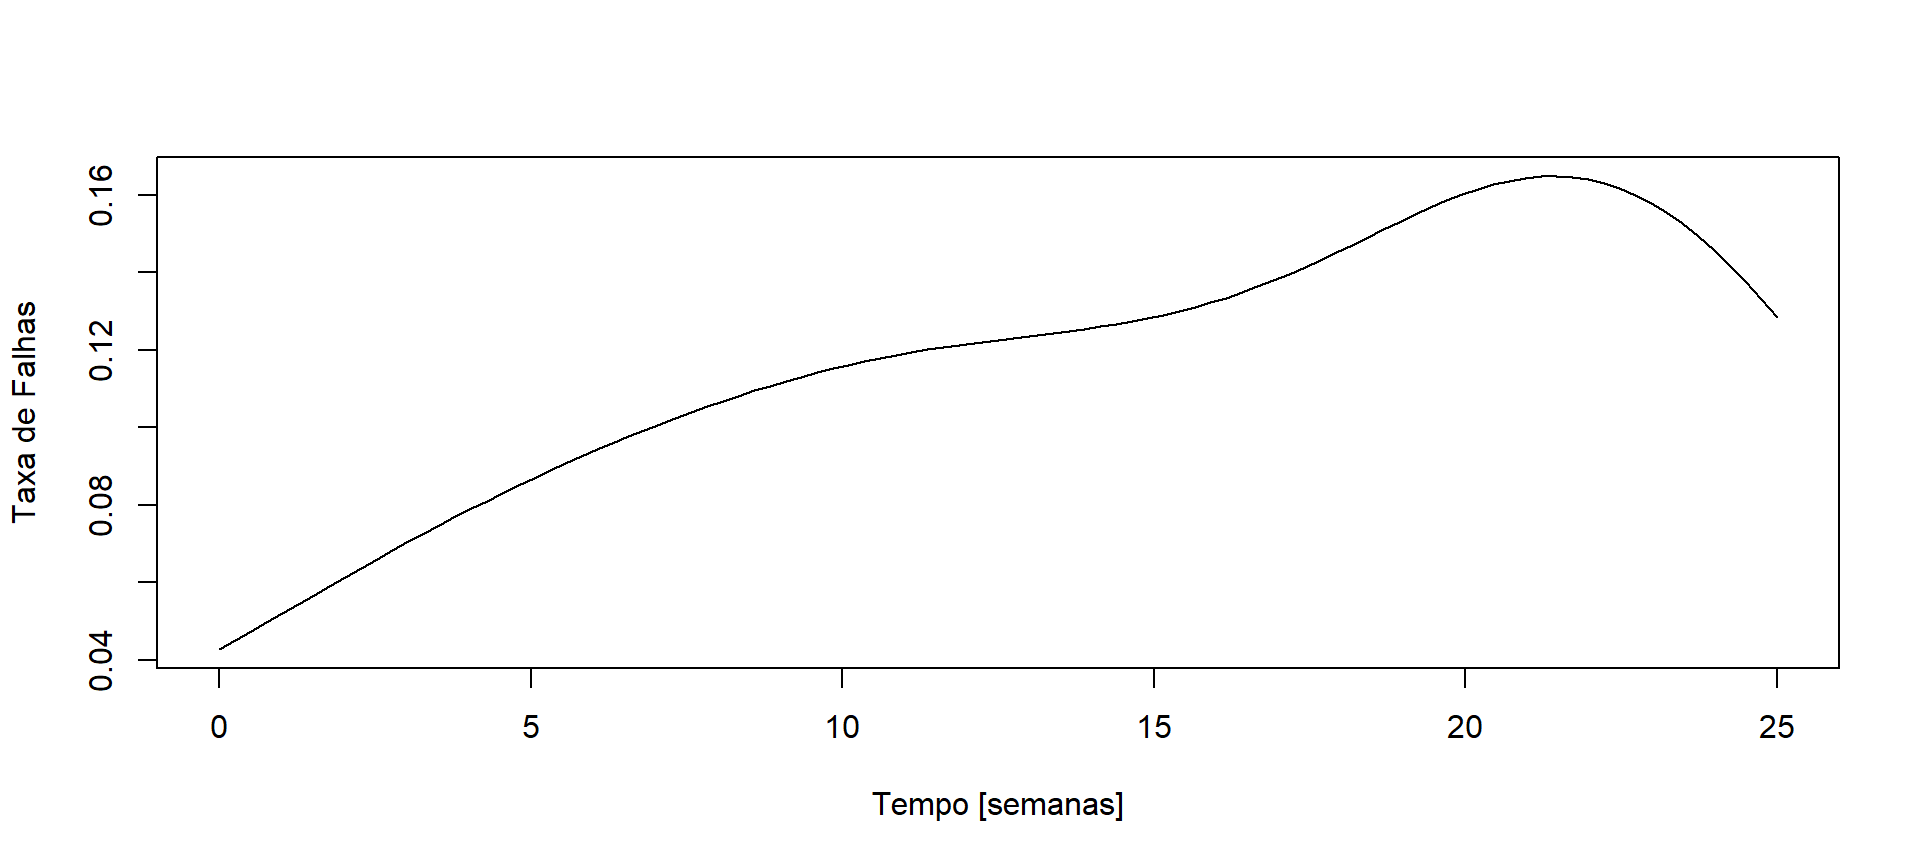
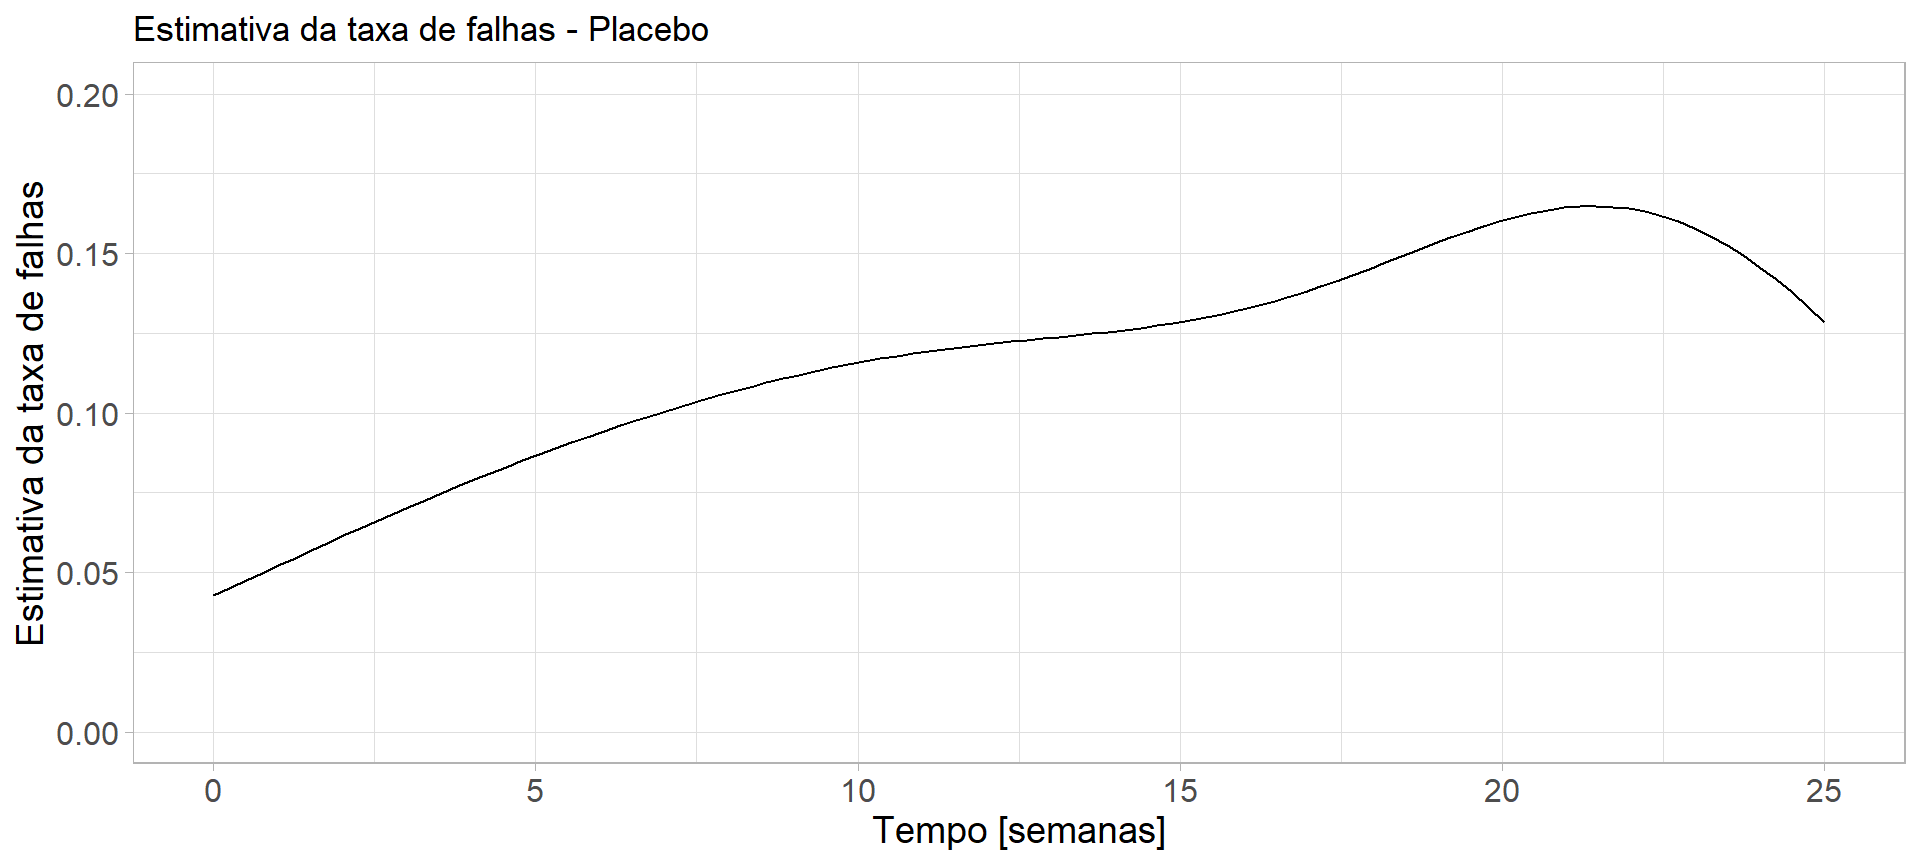
at24-08

diff --git a/_site/semanas/Aula02B.html b/_site/semanas/Aula02B.html
@@ -734,7 +734,7 @@ grupos=3 13       13     7.47      4.08      7.98
 <p>Vamos obter uma aproximação da função taxa de falhas usando a função density</p>
 <p>Posteriormente vamos obter o quantil usando uma função do pacote <code>survey</code></p>
 </section>
-<section id="ht-não-paramétrica---6mp" class="slide level2">
+<section id="ht-não-paramétrica---6mp" class="slide level2 smaller">
 <h2>h(t) não paramétrica - 6MP</h2>
 <div class="panel-tabset">
 <ul id="tabset-4" class="panel-tabset-tabby"><li><a data-tabby-default="" href="#tabset-4-1">Codigo</a></li><li><a href="#tabset-4-2">Grafico</a></li></ul>
@@ -748,12 +748,17 @@ grupos=3 13       13     7.47      4.08      7.98
 <span id="cb25-5"><a href="#cb25-5"></a>ajusteKM_sum <span class="ot">&lt;-</span> <span class="fu">summary</span>(ajusteKM)</span>
 <span id="cb25-6"><a href="#cb25-6"></a>pesos <span class="ot">&lt;-</span> ajusteKM_sum<span class="sc">$</span>n.event<span class="sc">/</span>ajusteKM_sum<span class="sc">$</span>n.risk</span>
 <span id="cb25-7"><a href="#cb25-7"></a>h <span class="ot">&lt;-</span> <span class="fu">density</span>(ajusteKM_sum<span class="sc">$</span>time, <span class="at">weights =</span> pesos,</span>
-<span id="cb25-8"><a href="#cb25-8"></a><span class="at">kernel =</span> <span class="st">"gaussian"</span>, <span class="at">n =</span> <span class="dv">100</span>, <span class="at">from =</span> <span class="dv">0</span>, <span class="at">to =</span> <span class="dv">35</span>)</span></code><button title="Copy to Clipboard" class="code-copy-button"><i class="bi"></i></button></pre></div>
+<span id="cb25-8"><a href="#cb25-8"></a><span class="at">kernel =</span> <span class="st">"gaussian"</span>, <span class="at">n =</span> <span class="dv">100</span>, <span class="at">from =</span> <span class="dv">0</span>, <span class="at">to =</span> <span class="dv">35</span>)</span>
+<span id="cb25-9"><a href="#cb25-9"></a><span class="fu">library</span>(ggplot2)</span>
+<span id="cb25-10"><a href="#cb25-10"></a>data <span class="ot">&lt;-</span> <span class="fu">data.frame</span>(<span class="at">x=</span>h<span class="sc">$</span>x, <span class="at">y=</span>h<span class="sc">$</span>y)</span></code><button title="Copy to Clipboard" class="code-copy-button"><i class="bi"></i></button></pre></div>
 </div>
 </div>
 <div id="tabset-4-2">
 <div class="cell">
-<div class="sourceCode cell-code" id="cb26"><pre class="sourceCode numberSource r number-lines code-with-copy"><code class="sourceCode r"><span id="cb26-1"><a href="#cb26-1"></a><span class="fu">plot</span>(h<span class="sc">$</span>x, h<span class="sc">$</span>y, <span class="at">type =</span> <span class="st">"l"</span>, <span class="at">xlab =</span> <span class="st">"Tempo [semanas]"</span>, <span class="at">ylab =</span> <span class="st">"Taxa de Falhas"</span>)</span></code><button title="Copy to Clipboard" class="code-copy-button"><i class="bi"></i></button></pre></div>
+<div class="sourceCode cell-code" id="cb26"><pre class="sourceCode numberSource r number-lines code-with-copy"><code class="sourceCode r"><span id="cb26-1"><a href="#cb26-1"></a><span class="fu">ggplot</span>(data, <span class="fu">aes</span>(<span class="at">x=</span>x, <span class="at">y=</span>y)) <span class="sc">+</span> <span class="fu">geom_line</span>() <span class="sc">+</span> <span class="fu">scale_y_continuous</span>(<span class="at">limits=</span><span class="fu">c</span>(<span class="dv">0</span>,<span class="fl">0.20</span>)) <span class="sc">+</span> <span class="fu">theme_light</span>() <span class="sc">+</span></span>
+<span id="cb26-2"><a href="#cb26-2"></a>  <span class="fu">theme</span>(<span class="at">axis.text =</span> <span class="fu">element_text</span>(<span class="at">size =</span> <span class="dv">12</span>),</span>
+<span id="cb26-3"><a href="#cb26-3"></a>        <span class="at">axis.title =</span> <span class="fu">element_text</span>(<span class="at">size =</span> <span class="dv">14</span>)) <span class="sc">+</span></span>
+<span id="cb26-4"><a href="#cb26-4"></a>  <span class="fu">labs</span>(<span class="at">x =</span> <span class="st">"Tempo [semanas]"</span>, <span class="at">y =</span> <span class="st">"Estimativa da taxa de falhas"</span>, <span class="at">title =</span> <span class="st">"Estimativa da taxa de falhas - 6MP"</span>)</span></code><button title="Copy to Clipboard" class="code-copy-button"><i class="bi"></i></button></pre></div>
 <div class="cell-output-display">
 <p><img data-src="Aula02B_files/figure-revealjs/unnamed-chunk-17-1.png" width="960"></p>
 </div>
@@ -762,7 +767,7 @@ grupos=3 13       13     7.47      4.08      7.98
 </div>
 </div>
 </section>
-<section id="ht-não-paramétrica---placebo" class="slide level2">
+<section id="ht-não-paramétrica---placebo" class="slide level2 smaller">
 <h2>h(t) não paramétrica - Placebo</h2>
 <div class="panel-tabset">
 <ul id="tabset-5" class="panel-tabset-tabby"><li><a data-tabby-default="" href="#tabset-5-1">Codigo</a></li><li><a href="#tabset-5-2">Grafico</a></li></ul>
@@ -776,12 +781,16 @@ grupos=3 13       13     7.47      4.08      7.98
 <span id="cb27-5"><a href="#cb27-5"></a>ajusteKM_sum <span class="ot">&lt;-</span> <span class="fu">summary</span>(ajusteKM)</span>
 <span id="cb27-6"><a href="#cb27-6"></a>pesos <span class="ot">&lt;-</span> ajusteKM_sum<span class="sc">$</span>n.event<span class="sc">/</span>ajusteKM_sum<span class="sc">$</span>n.risk</span>
 <span id="cb27-7"><a href="#cb27-7"></a>h <span class="ot">&lt;-</span> <span class="fu">density</span>(ajusteKM_sum<span class="sc">$</span>time, <span class="at">weights =</span> pesos,</span>
-<span id="cb27-8"><a href="#cb27-8"></a><span class="at">kernel =</span> <span class="st">"gaussian"</span>, <span class="at">n =</span> <span class="dv">100</span>, <span class="at">from =</span> <span class="dv">0</span>, <span class="at">to =</span> <span class="dv">25</span>)</span></code><button title="Copy to Clipboard" class="code-copy-button"><i class="bi"></i></button></pre></div>
+<span id="cb27-8"><a href="#cb27-8"></a><span class="at">kernel =</span> <span class="st">"gaussian"</span>, <span class="at">n =</span> <span class="dv">100</span>, <span class="at">from =</span> <span class="dv">0</span>, <span class="at">to =</span> <span class="dv">25</span>)</span>
+<span id="cb27-9"><a href="#cb27-9"></a>data <span class="ot">&lt;-</span> <span class="fu">data.frame</span>(<span class="at">x=</span>h<span class="sc">$</span>x, <span class="at">y=</span>h<span class="sc">$</span>y)</span></code><button title="Copy to Clipboard" class="code-copy-button"><i class="bi"></i></button></pre></div>
 </div>
 </div>
 <div id="tabset-5-2">
 <div class="cell">
-<div class="sourceCode cell-code" id="cb28"><pre class="sourceCode numberSource r number-lines code-with-copy"><code class="sourceCode r"><span id="cb28-1"><a href="#cb28-1"></a><span class="fu">plot</span>(h<span class="sc">$</span>x, h<span class="sc">$</span>y, <span class="at">type =</span> <span class="st">"l"</span>, <span class="at">xlab =</span> <span class="st">"Tempo [semanas]"</span>, <span class="at">ylab =</span> <span class="st">"Taxa de Falhas"</span>)</span></code><button title="Copy to Clipboard" class="code-copy-button"><i class="bi"></i></button></pre></div>
+<div class="sourceCode cell-code" id="cb28"><pre class="sourceCode numberSource r number-lines code-with-copy"><code class="sourceCode r"><span id="cb28-1"><a href="#cb28-1"></a><span class="fu">ggplot</span>(data, <span class="fu">aes</span>(<span class="at">x=</span>x, <span class="at">y=</span>y)) <span class="sc">+</span> <span class="fu">geom_line</span>() <span class="sc">+</span> <span class="fu">scale_y_continuous</span>(<span class="at">limits=</span><span class="fu">c</span>(<span class="dv">0</span>,<span class="fl">0.20</span>)) <span class="sc">+</span>  <span class="fu">theme_light</span>() <span class="sc">+</span></span>
+<span id="cb28-2"><a href="#cb28-2"></a>  <span class="fu">theme</span>(<span class="at">axis.text =</span> <span class="fu">element_text</span>(<span class="at">size =</span> <span class="dv">12</span>),</span>
+<span id="cb28-3"><a href="#cb28-3"></a>        <span class="at">axis.title =</span> <span class="fu">element_text</span>(<span class="at">size =</span> <span class="dv">14</span>)) <span class="sc">+</span></span>
+<span id="cb28-4"><a href="#cb28-4"></a>  <span class="fu">labs</span>(<span class="at">x =</span> <span class="st">"Tempo [semanas]"</span>, <span class="at">y =</span> <span class="st">"Estimativa da taxa de falhas"</span>, <span class="at">title =</span> <span class="st">"Estimativa da taxa de falhas - Placebo"</span>)</span></code><button title="Copy to Clipboard" class="code-copy-button"><i class="bi"></i></button></pre></div>
 <div class="cell-output-display">
 <p><img data-src="Aula02B_files/figure-revealjs/unnamed-chunk-19-1.png" width="960"></p>
 </div>
@@ -792,10 +801,6 @@ grupos=3 13       13     7.47      4.08      7.98
 </section>
 <section id="quantis-não-paramétricos" class="slide level2">
 <h2>Quantis não paramétricos</h2>
-<div class="panel-tabset">
-<ul id="tabset-6" class="panel-tabset-tabby"><li><a data-tabby-default="" href="#tabset-6-1">Quantis</a></li><li><a href="#tabset-6-2">dados_p</a></li></ul>
-<div class="tab-content">
-<div id="tabset-6-1">
 <div class="cell">
 <div class="sourceCode cell-code" id="cb29"><pre class="sourceCode numberSource r number-lines code-with-copy"><code class="sourceCode r"><span id="cb29-1"><a href="#cb29-1"></a><span class="fu">library</span>(survey)</span>
 <span id="cb29-2"><a href="#cb29-2"></a>dados_p <span class="ot">&lt;-</span> <span class="fu">svydesign</span>(<span class="at">ids =</span> <span class="sc">~</span><span class="dv">1</span>, <span class="at">data=</span>dados)</span>
@@ -807,18 +812,6 @@ grupos=3 13       13     7.47      4.08      7.98
 attr(,"ci")
     0.025 0.975
 0.5     5    12</code></pre>
-</div>
-</div>
-</div>
-<div id="tabset-6-2">
-<div class="cell">
-<div class="sourceCode cell-code" id="cb31"><pre class="sourceCode numberSource r number-lines code-with-copy"><code class="sourceCode r"><span id="cb31-1"><a href="#cb31-1"></a><span class="fu">svydesign</span>(<span class="at">ids =</span> <span class="sc">~</span><span class="dv">1</span>, <span class="at">data=</span>dados)</span></code><button title="Copy to Clipboard" class="code-copy-button"><i class="bi"></i></button></pre></div>
-<div class="cell-output cell-output-stdout">
-<pre><code>Independent Sampling design (with replacement)
-svydesign(ids = ~1, data = dados)</code></pre>
-</div>
-</div>
-</div>
 </div>
 </div>
 
